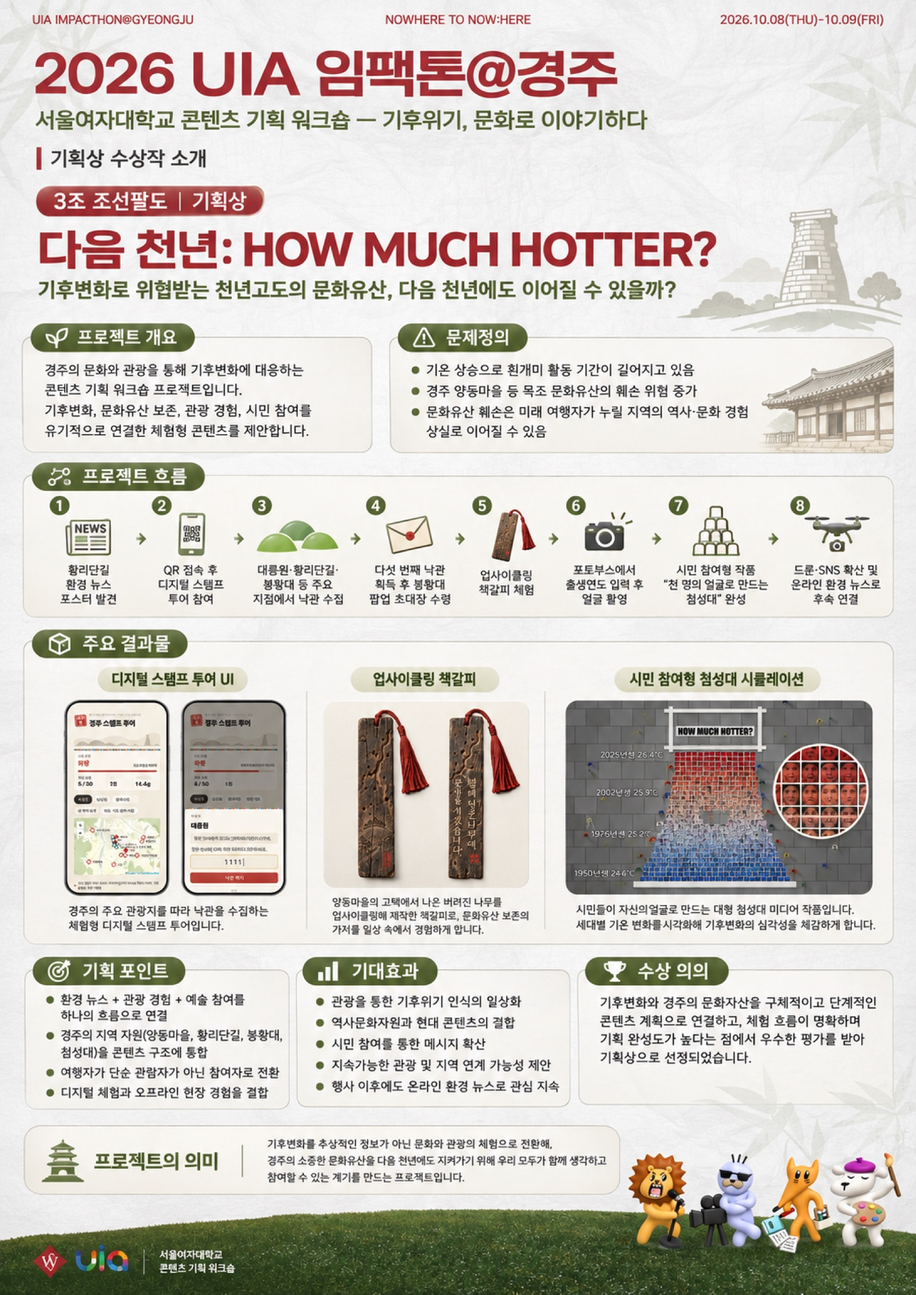
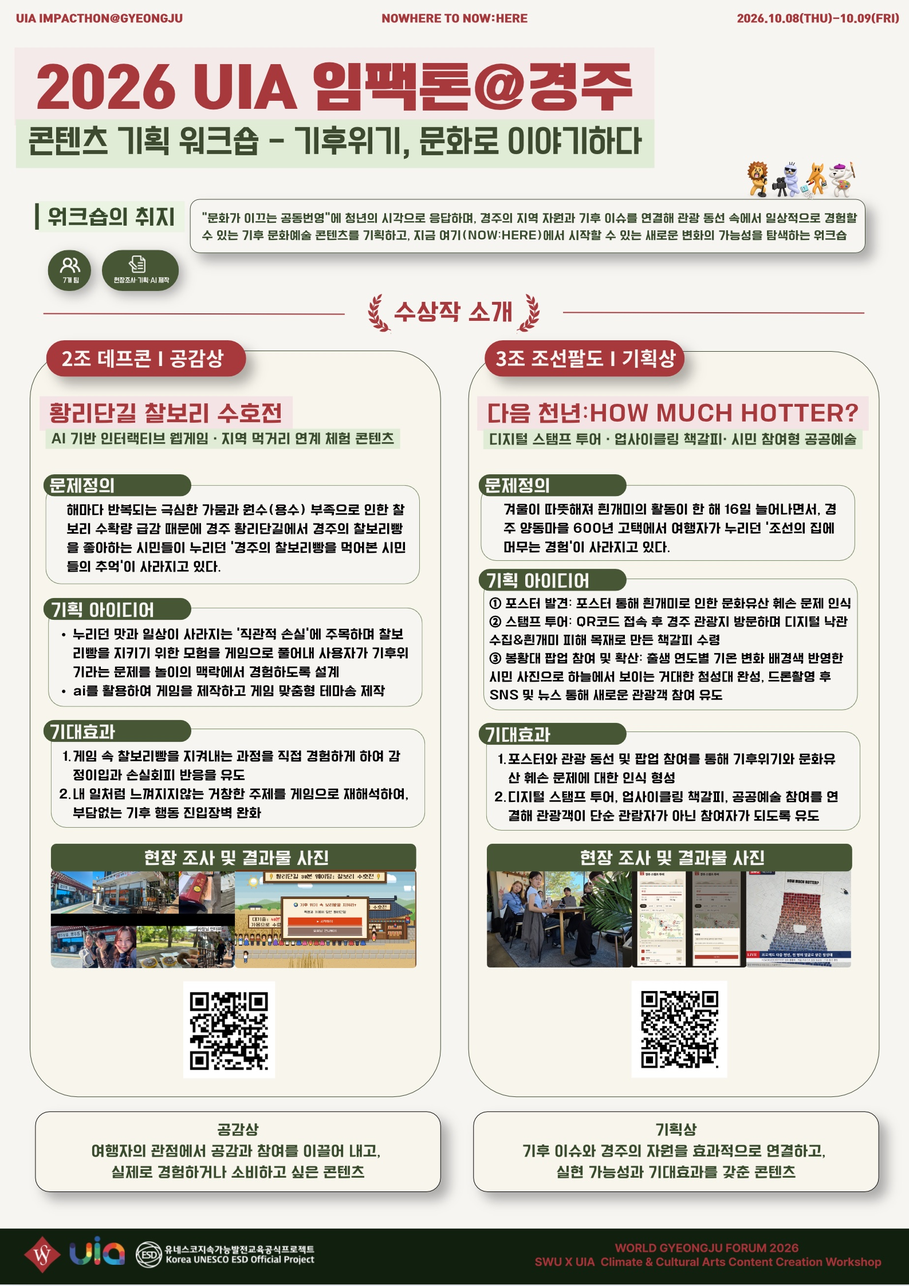
경주 서울여대 포스터를 드라이브 최신본으로 교체하고 상세 내용 갱신

diff --git a/client/src/data/works.js b/client/src/data/works.js
@@ -666,54 +666,62 @@ export const works = [
         id: 'gj-seoulwu',
         subjectId: 'gyeongju',
         subjectName: '경주 포럼',
-        title: '다음 천년 HOW MUCH HOTTER?',
-        author: '서울여자대학교 콘텐츠 기획 워크숍 3조 조선팔도',
+        title: '2026 UIA 임팩톤@경주 서울여자대학교 수상작',
+        author: '서울여자대학교 콘텐츠 기획 워크숍 2조와 3조',
         members: [],
-        description: '기후변화로 위협받는 천년고도 경주의 문화유산이 다음 천년에도 이어질 수 있는지 묻는 체험형 콘텐츠입니다. 환경 뉴스 포스터에서 시작해 디지털 스탬프 투어와 낙관 수집과 책갈피와 대형 참여 작품까지 여덟 단계의 여정으로 짰습니다.',
+        description: '기후위기를 문화로 이야기한 서울여자대학교 콘텐츠 기획 워크숍의 수상작입니다. 2조는 찰보리빵을 지키는 웹게임으로 공감상을 3조는 디지털 스탬프 투어와 책갈피와 첨성대 작품으로 기획상을 받았습니다.',
         details: [
-            { h: '개요', p: [
+            { h: '워크숍 개요', p: [
                 '2026 UIA 임팩톤@경주 서울여자대학교 콘텐츠 기획 워크숍 기후위기 문화로 이야기하다',
-                '기획상 3조 조선팔도 “다음 천년 HOW MUCH HOTTER?”',
-                '질문 기후변화로 위협받는 천년고도의 문화유산 다음 천년에도 이어질 수 있을까',
-                '경주의 문화와 관광으로 기후변화에 대응하는 콘텐츠 기획 프로젝트',
+                '2026년 10월 8일부터 9일 NOWHERE TO NOW:HERE',
+                '7개 팀 현장조사와 기획과 AI 제작',
+                '취지 “문화가 이끄는 공동번영”에 청년의 시각으로 응답',
+                '경주의 지역 자원과 기후 이슈를 연결해 관광 동선 속에서 일상적으로 경험할 수 있는 기후 문화예술 콘텐츠 기획',
+                '지금 여기(NOW:HERE)에서 시작할 수 있는 새로운 변화의 가능성 탐색',
             ] },
-            { h: '문제정의', p: [
-                '기온 상승으로 흰개미 활동 기간이 길어지는 중',
-                '경주 양동마을 등 목조 문화유산의 훼손 위험 증가',
-                '문화유산 훼손은 미래 여행자가 누릴 지역의 역사와 문화 경험 상실로 이어질 수 있음',
+            { h: '2조 데프콘 공감상 황리단길 찰보리 수호전', p: [
+                'AI 기반 인터랙티브 웹게임과 지역 먹거리 연계 체험 콘텐츠',
             ] },
-            { h: '프로젝트 흐름 8단계', p: [
-                '1 황리단길 환경 뉴스 포스터 발견',
-                '2 QR 접속 후 디지털 스탬프 투어 참여',
-                '3 대릉원 황리단길 봉황대 등 주요 지점에서 낙관 수집',
-                '4 다섯 번째 낙관 획득 후 봉황대 팝업 초대장 수령',
-                '5 업사이클링 책갈피 체험',
-                '6 포토부스에서 출생연도 입력 후 얼굴 촬영',
-                '7 시민 참여형 작품 “천 명의 얼굴로 만드는 첨성대” 완성',
-                '8 드론과 SNS 확산 및 온라인 환경 뉴스로 후속 연결',
+            { h: '문제정의 2조', p: [
+                '해마다 반복되는 극심한 가뭄과 원수 부족으로 찰보리 수확량이 급감',
+                '경주 황리단길에서 찰보리빵을 먹어본 시민들의 추억이 사라지는 중',
             ] },
-            { h: '주요 결과물', p: [
-                '디지털 스탬프 투어 UI. 경주의 주요 관광지를 따라 낙관을 수집하는 체험형 앱',
-                '업사이클링 책갈피. 양동마을 고택에서 나온 버려진 나무로 제작 문화유산 보존의 가치를 일상에서 경험',
-                '시민 참여형 첨성대 시뮬레이션. 시민 얼굴로 만든 대형 미디어 작품 세대별 기온 변화를 시각화',
+            { h: '기획 아이디어 2조', p: [
+                '누리던 맛과 일상이 사라지는 직관적 손실에 주목',
+                '찰보리빵을 지키기 위한 모험을 게임으로 풀어 기후위기를 놀이의 맥락에서 경험하도록 설계',
+                'AI를 활용해 게임을 제작하고 게임 맞춤형 테마송 제작',
             ] },
-            { h: '기획 포인트', p: [
-                '환경 뉴스와 관광 경험과 예술 참여를 하나의 흐름으로 연결',
-                '양동마을 황리단길 봉황대 첨성대를 콘텐츠 구조에 통합',
-                '여행자가 단순 관람자에서 참여자로 전환',
-                '디지털 체험과 오프라인 현장 경험 결합',
+            { h: '기대효과 2조', p: [
+                '게임 속 찰보리빵을 지켜내는 과정을 직접 경험하게 해 감정이입과 손실회피 반응 유도',
+                '내 일처럼 느껴지지 않는 거창한 주제를 게임으로 재해석해 기후 행동의 진입장벽 완화',
+                '공감상. 여행자의 관점에서 공감과 참여를 이끌어 내고 실제로 경험하거나 소비하고 싶은 콘텐츠',
             ] },
-            { h: '기대효과와 수상 의의', p: [
-                '관광을 통한 기후위기 인식의 일상화',
-                '역사문화자원과 현대 콘텐츠의 결합',
-                '시민 참여를 통한 메시지 확산',
-                '지속가능한 관광과 지역 연계 가능성 제안',
-                '행사 이후에도 온라인 환경 뉴스로 관심 지속',
-                '구체적이고 단계적인 콘텐츠 계획과 명확한 체험 흐름 높은 기획 완성도로 기획상 선정',
+            { h: '3조 조선팔도 기획상 다음 천년 HOW MUCH HOTTER?', p: [
+                '디지털 스탬프 투어와 업사이클링 책갈피와 시민 참여형 공공예술',
+            ] },
+            { h: '문제정의 3조', p: [
+                '겨울이 따뜻해져 흰개미 활동이 한 해 16일 늘어남',
+                '경주 양동마을 600년 고택에서 여행자가 누리던 조선의 집에 머무는 경험이 사라지는 중',
+            ] },
+            { h: '기획 아이디어 3조', p: [
+                '1 포스터 발견. 포스터를 통해 흰개미로 인한 문화유산 훼손 문제 인식',
+                '2 스탬프 투어. QR코드로 접속해 경주 관광지를 방문하며 디지털 낙관 수집 흰개미 피해 목재로 만든 책갈피 수령',
+                '3 봉황대 팝업 참여와 확산. 출생 연도별 기온 변화를 배경색에 반영한 시민 사진으로 하늘에서 보이는 거대한 첨성대 완성',
+                '드론 촬영 후 SNS와 뉴스로 새로운 관광객 참여 유도',
+            ] },
+            { h: '기대효과 3조', p: [
+                '포스터와 관광 동선과 팝업 참여를 통해 기후위기와 문화유산 훼손 문제에 대한 인식 형성',
+                '디지털 스탬프 투어 업사이클링 책갈피 공공예술 참여를 연결해 관광객이 단순 관람자에서 참여자로 전환',
+                '기획상. 기후 이슈와 경주의 자원을 효과적으로 연결하고 실현 가능성과 기대효과를 갖춘 콘텐츠',
+            ] },
+            { h: '결과물과 현장 조사', p: [
+                '현장 조사 및 결과물 사진과 QR 코드를 포스터에 수록',
+                '2조 황리단길 찰보리 수호전 웹게임 화면',
+                '3조 디지털 스탬프 투어 화면과 HOW MUCH HOTTER 첨성대 시뮬레이션',
             ] },
         ],
         award: 'prize',
-        awardLabel: '기획상',
+        awardLabel: '공감상 기획상',
         links: [],
         pages: ['/posters/gj-seoulwu.jpg'],
     },
